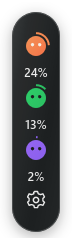
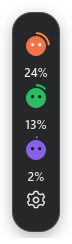
fix: use solid capsule colors and 24px corner radius

diff --git a/docs/UI_SPEC.md b/docs/UI_SPEC.md
@@ -23,6 +23,8 @@
 
 按最新外观反馈，角色外围不再绘制固定灰绿圆环、黑色圆盘和圆形选中边框。只保留 2px 彩色用量进度弧；选中光晕改为围绕角色本体。胶囊、服务项和点击区域尺寸不变。
 
+悬浮窗主体使用纯色 `#1B1C1F`，彩色角色同样使用纯色；标准档外框圆角为 24px。
+
 ## 尺寸和配色
 
 以下均为逻辑像素。胶囊在主体外留出 12px，详情和设置留出 12px，容纳透明阴影；这部分不计入设计主体尺寸。详情与设置分别使用 1.0 倍 Token；共用图标和按钮由所属面板传入缩放，胶囊的设置触点按胶囊尺寸独立缩放。
@@ -39,7 +41,7 @@
 | 信息卡片／行 | 快览卡片 136px、行 36px；完整详情卡片 120px、行 32px；图标、标签、数值分别固定在 x=0／26／90 |
 | 开关 | 40 × 22px，白色滑块 18px；设置项高 54px |
 | 设置下拉框／滑杆 | 下拉框高 36px；滑杆轨道 6px、滑块 20px；下拉弹层和键盘选择使用原生 ComboBox |
-| 圆角 | 胶囊随宽度变化、面板 12px、控件 8px |
+| 圆角 | 悬浮窗紧凑／标准／宽松为 20／24／28px；面板 12px、控件 8px |
 
 外观页的胶囊尺寸选择立即生效，并保存至用户配置。旧配置缺少 capsule_size 时采用标准档；调整后等待原生窗口重新布局，再约束到屏幕工作区并同步重定位已打开的详情。
 

diff --git a/docs/WINDOWS_QA.md b/docs/WINDOWS_QA.md
@@ -2,7 +2,13 @@
 
 日期：2026-10-10 · 工程版本：v0.2.0 · 目标：Windows x64。
 
-## 当前轮：去除悬浮角色的固定圆形边框
+## 当前轮：调整圆角并去除悬浮窗渐变
+
+- [x] 保留上一版圆形角色与细进度弧；主体与角色使用纯色，去除悬浮窗渐变。
+- [x] 悬浮窗紧凑／标准／宽松圆角从 24／32／40px 改为 20／24／28px，窗口和服务项尺寸保持原样。
+- [x] 三档、选中与空状态原生快照、控件输入检查、Release 构建及启动检查通过。
+
+## 前轮：去除悬浮角色的固定圆形边框
 
 - [x] 去除灰绿圆环、黑色圆盘与圆形选中描边，保留 2px 用量进度弧；选中光晕放在角色本体。
 - [x] 胶囊三档、服务项及点击区域尺寸保持原样。
